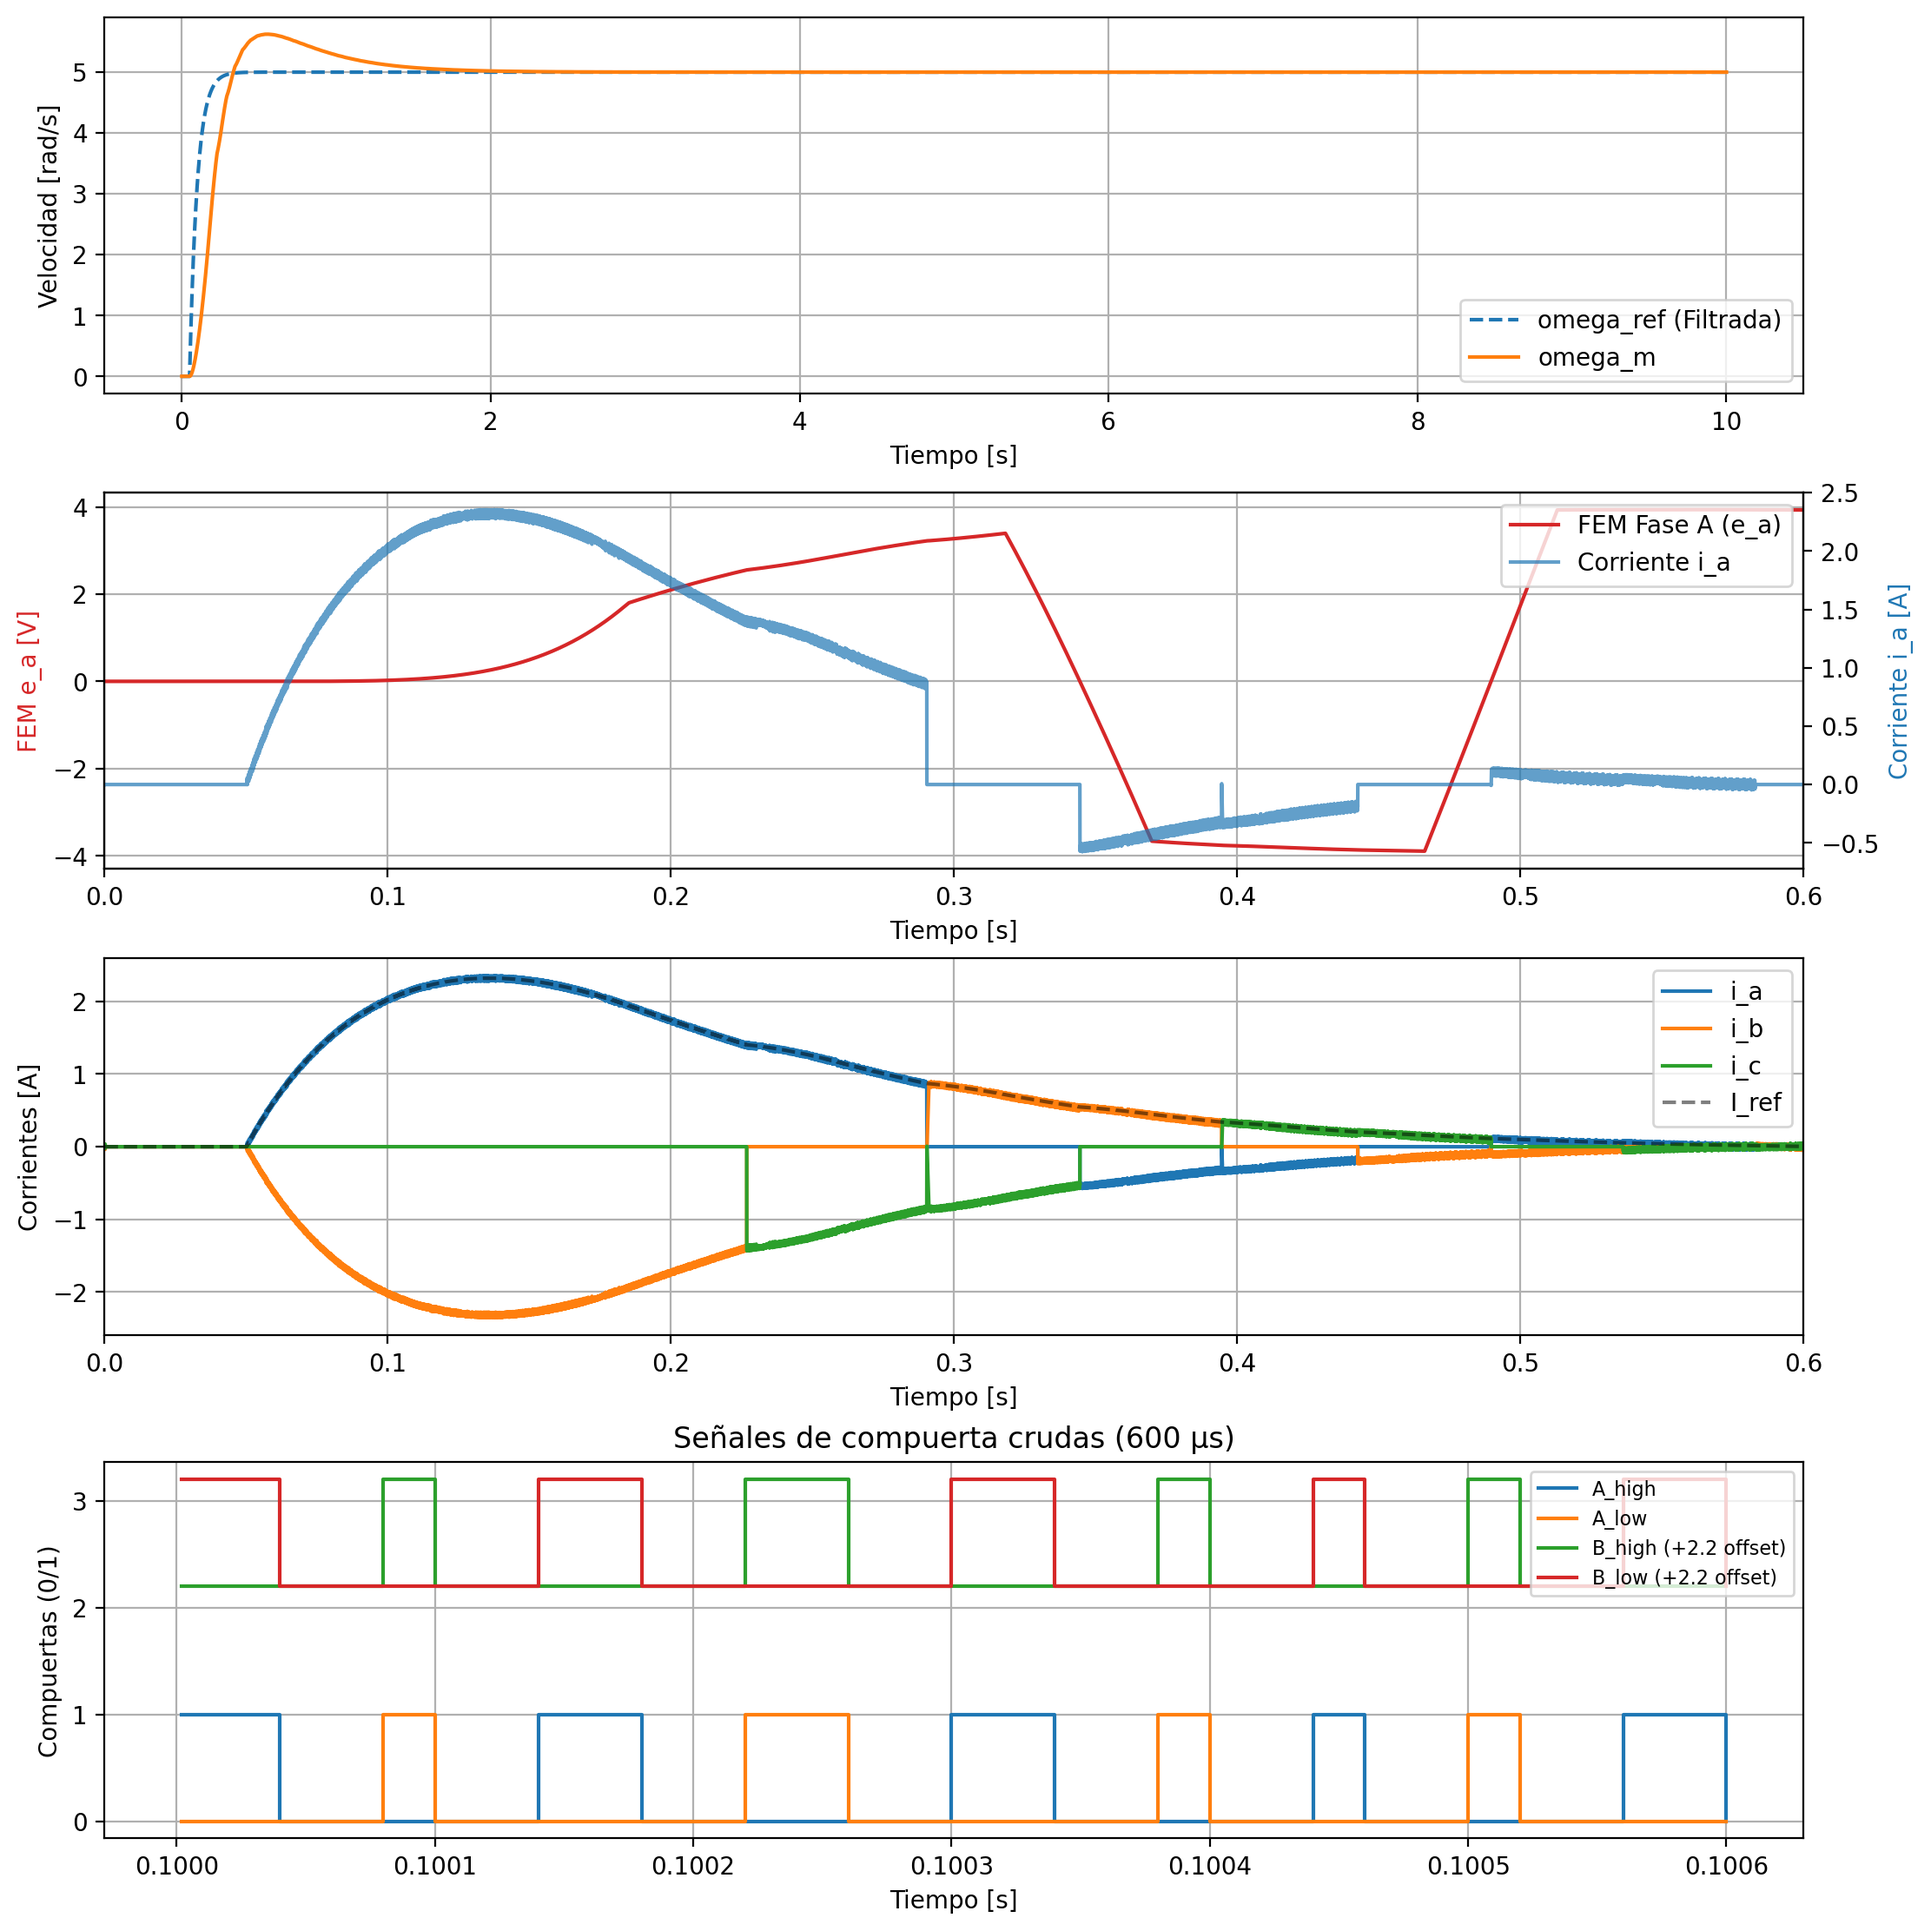
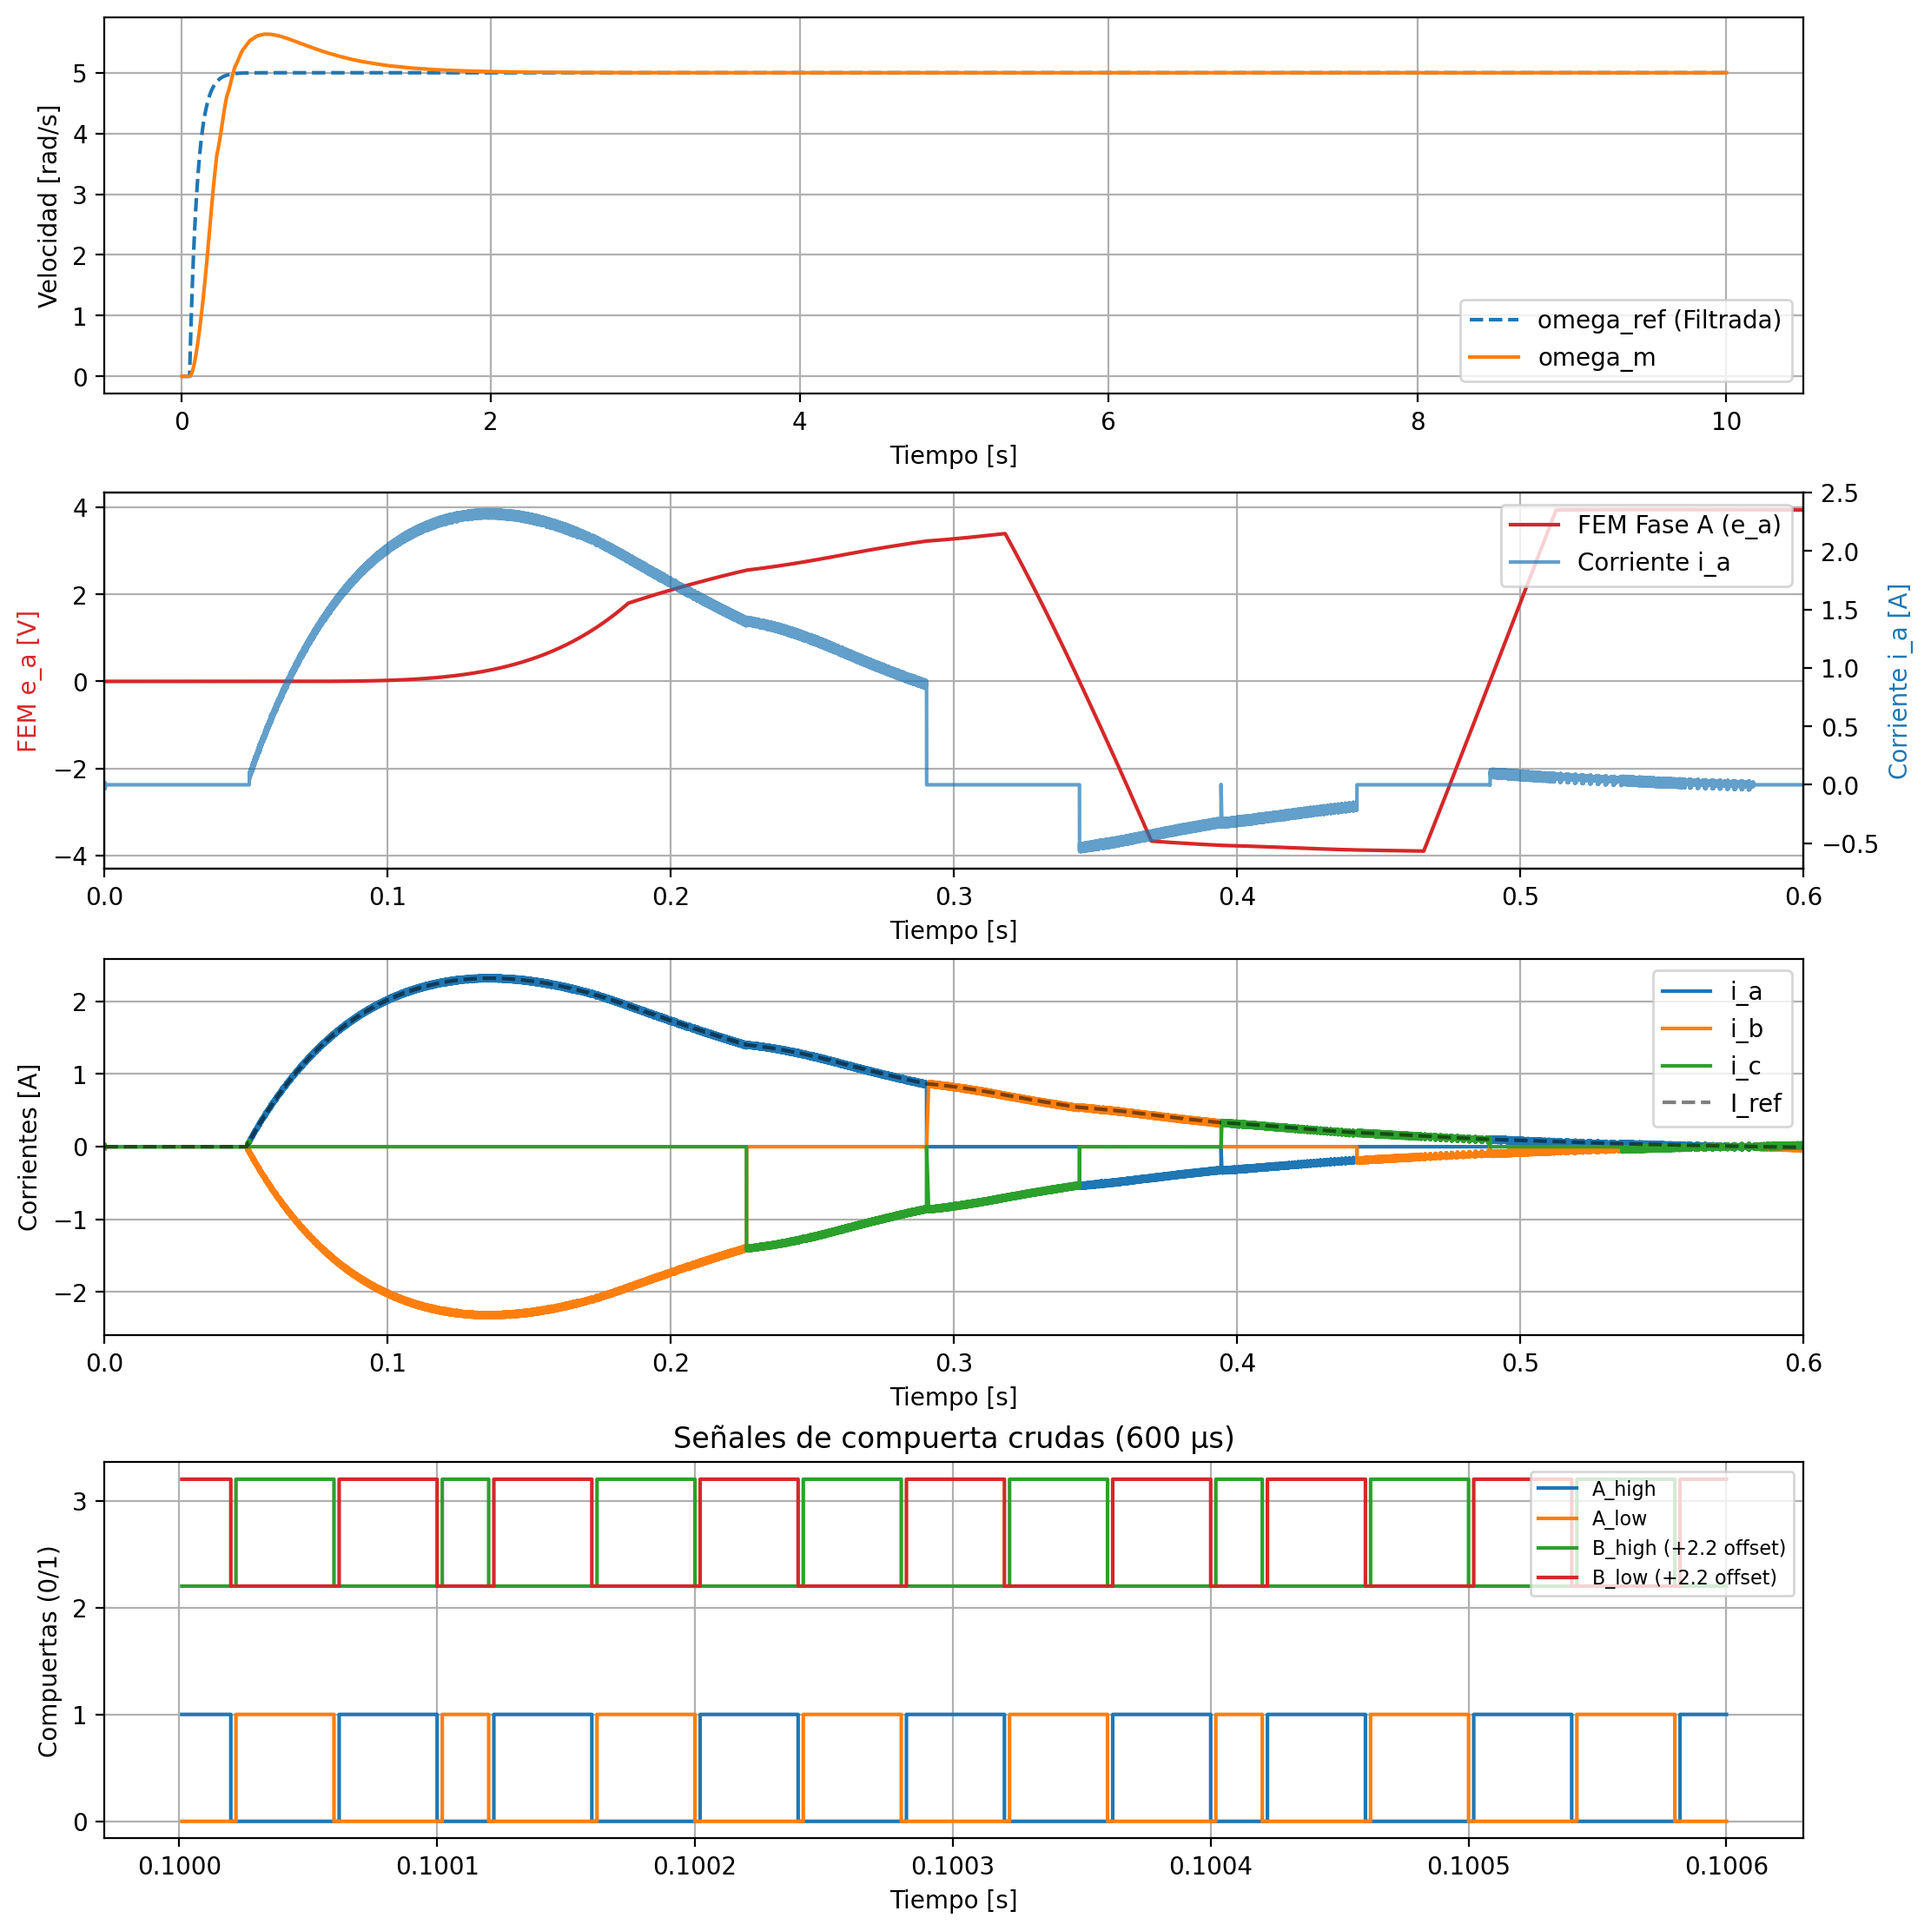
Dead time funcionando bien

diff --git a/src/main.py b/src/main.py
@@ -37,7 +37,7 @@ TE_MIN, TE_MAX = -17.8, 17.8   # Límites de torque [N*m]
 TS_VEL = 7 * 20e-6              # 140 us
 
 # ============================================================
-# PARÁMETROS DEL CONTROLADOR DE CORRIENTE
+# PARÁMETROS DEL CONTROLADOR DE CORRIENTE Y HARDWARE
 # ============================================================
 BANDA_HISTERESIS = 0.01   # A
 TS_CURRENT = 20e-6        # s
@@ -46,32 +46,35 @@ DEAD_TIME = 1e-6          # s
 # ============================================================
 # PARÁMETROS DE SIMULACIÓN Y FILTRO
 # ============================================================
-DT_PLANT = 2e-6          # Paso de integración de la planta [s]
+DT_PLANT = 1e-6          # CORRECCIÓN 1: Paso a 1 us para resolver el Dead Time
 TIEMPO_SIM = 10           # Duración total de la simulación [s]
 T_CARGA = 0.0            # Par de carga aplicado [N*m]
 
 TAU_FILTRO_REF = 0.05    # Constante de tiempo del Filtro Pasa Bajas [s] 
 
-#Función para la referencia
+# Función para la referencia
 def omega_ref_perfil(t):
     """Referencia de velocidad cruda (escalón de 0 a 5 rad/s en t=0.05s)."""
     return 0.0 if t < 0.05 else 5.0
 
 
 def main():
-    #Se instacnia el objeto motor, junto con sus parametros
+    # Se instancia el objeto motor
     motor = MotorBLDC(R, L, J, B, P, DT_PLANT, LAMBDA_M)
-    inversor = Inversor(dt_sim=TS_CURRENT, dead_time=DEAD_TIME) #Se instancia el objeto del inversor
-    ctrl_corriente = ControladorCorriente(TS_CURRENT, BANDA_HISTERESIS) #Objeto de corriente
+    
+    # CORRECCIÓN 2: Inversor muestreado a DT_PLANT (simula el hardware MCPWM)
+    inversor = Inversor(dt_sim=DT_PLANT, dead_time=DEAD_TIME) 
+    
+    ctrl_corriente = ControladorCorriente(TS_CURRENT, BANDA_HISTERESIS)
     ctrl_velocidad = ControladorVelocidad(
         TS_VEL, KP_VEL, KI_VEL, TE_MIN, TE_MAX, P, LAMBDA_M
-    ) #Objeto de velocidad
+    )
 
     n_steps = int(TIEMPO_SIM / DT_PLANT)
     k_current = max(1, round(TS_CURRENT / DT_PLANT))
     k_speed = max(1, round(TS_VEL / DT_PLANT))
 
-    # Factor alpha para la discretización del filtro pasa bajas de 1er orden
+    # Factor alpha para la discretización del filtro pasa bajas
     alpha_lpf = 1.0 - np.exp(-DT_PLANT / TAU_FILTRO_REF)
     wref_filtrada = 0.0
 
@@ -79,6 +82,10 @@ def main():
     Va = Vb = Vc = 0.0
     Ah = Al = Bh = Bl = Ch = Cl = 0
 
+    # Comandos ideales del controlador
+    cmd_A = cmd_B = cmd_C = 0
+
+    # Preasignación de arreglos para historiales
     hist_t = np.zeros(n_steps)
     hist_omega = np.zeros(n_steps)
     hist_ia = np.zeros(n_steps)
@@ -93,29 +100,36 @@ def main():
     hist_Bh = np.zeros(n_steps)
     hist_Bl = np.zeros(n_steps)
 
+    # CORRECCIÓN 3: Reestructuración del bucle multitasa
     for k in range(n_steps):
         t = k * DT_PLANT
         
-        # --- Aplicación del Filtro Pasa Bajas a la referencia ---
+        # --- Filtro Pasa Bajas de la referencia (Cada 1 us) ---
         wref_raw = omega_ref_perfil(t)
         wref_filtrada += alpha_lpf * (wref_raw - wref_filtrada)
 
+        # 1. Lazo Lento: Control de Velocidad (Cada 140 us)
         if k % k_speed == 0:
             I_ref = ctrl_velocidad.calcular(wref_filtrada, motor.omega_m)
 
+        # 2. Lazo Rápido: Control de Corriente e Histéresis (Cada 20 us)
         if k % k_current == 0:
             _, _, _, sector = motor.get_sensores_hall()
             Sah, Sal, Sbh, Sbl, Sch, Scl = ctrl_corriente.calcular(
                 I_ref, motor.ia, motor.ib, motor.ic, sector
             )
+            # Guardamos la intención de conmutación ideal
             cmd_A = 1 if Sah else 0
             cmd_B = 1 if Sbh else 0
             cmd_C = 1 if Sch else 0
-            Ah, Al, Bh, Bl, Ch, Cl = inversor.actualizar(cmd_A, cmd_B, cmd_C)
-            Va, Vb, Vc = inversor.voltajes_de_fase(VDC)
+
+        # 3. Hardware MCPWM del Inversor y Planta Física (SIEMPRE - Cada 1 us)
+        Ah, Al, Bh, Bl, Ch, Cl = inversor.actualizar(cmd_A, cmd_B, cmd_C)
+        Va, Vb, Vc = inversor.voltajes_de_fase(VDC)
 
         motor.actualizar(Va, Vb, Vc, T_CARGA)
 
+        # Guardado de historiales para telemetría
         hist_t[k] = t
         hist_omega[k] = motor.omega_m
         hist_ia[k] = motor.ia
@@ -136,7 +150,7 @@ def main():
 
     fig, axs = plt.subplots(4, 1, figsize=(11, 11), layout='constrained')
 
-    # 1. Velocidad (Referencia filtrada vs Respuesta del motor)
+    # 1. Velocidad
     axs[0].plot(hist_t[::STEP], hist_wref[::STEP], "--", label="omega_ref (Filtrada)")
     axs[0].plot(hist_t[::STEP], hist_omega[::STEP], label="omega_m")
     axs[0].set_ylabel("Velocidad [rad/s]")
@@ -144,7 +158,7 @@ def main():
     axs[0].legend(loc="lower right")
     axs[0].grid(True)
 
-    # 2. FEM (e_a) y Corriente (i_a) de la Fase A en eje Y secundario
+    # 2. FEM e_a e i_a
     ax_fem = axs[1]
     ax_curr_a = ax_fem.twinx()
 
@@ -161,7 +175,7 @@ def main():
     ax_fem.legend(lines, labels, loc="upper right")
     ax_fem.grid(True)
 
-    # 3. Corrientes de las 3 Fases (Zoom 0 a 0.6s)
+    # 3. Corrientes de las 3 Fases
     axs[2].plot(hist_t[::STEP], hist_ia[::STEP], label="i_a")
     axs[2].plot(hist_t[::STEP], hist_ib[::STEP], label="i_b")
     axs[2].plot(hist_t[::STEP], hist_ic[::STEP], label="i_c")

diff --git a/control/pwm.py b/control/pwm.py
@@ -5,3 +5,14 @@ Created on Mon Jul 27 08:48:53 2026
 @author: lmintegral
 """
 
+from control.controller import Controlador
+
+class pwm_control(Controlador):
+    def __init__(self, feq_pwm, pulse_width):
+        super().__init__(Ts)
+        self.frecuencia = float(feq_pwm)
+        self.pulso = float(pulse_width)
+    
+    
+    def aplicar_pwm():
+        pass
